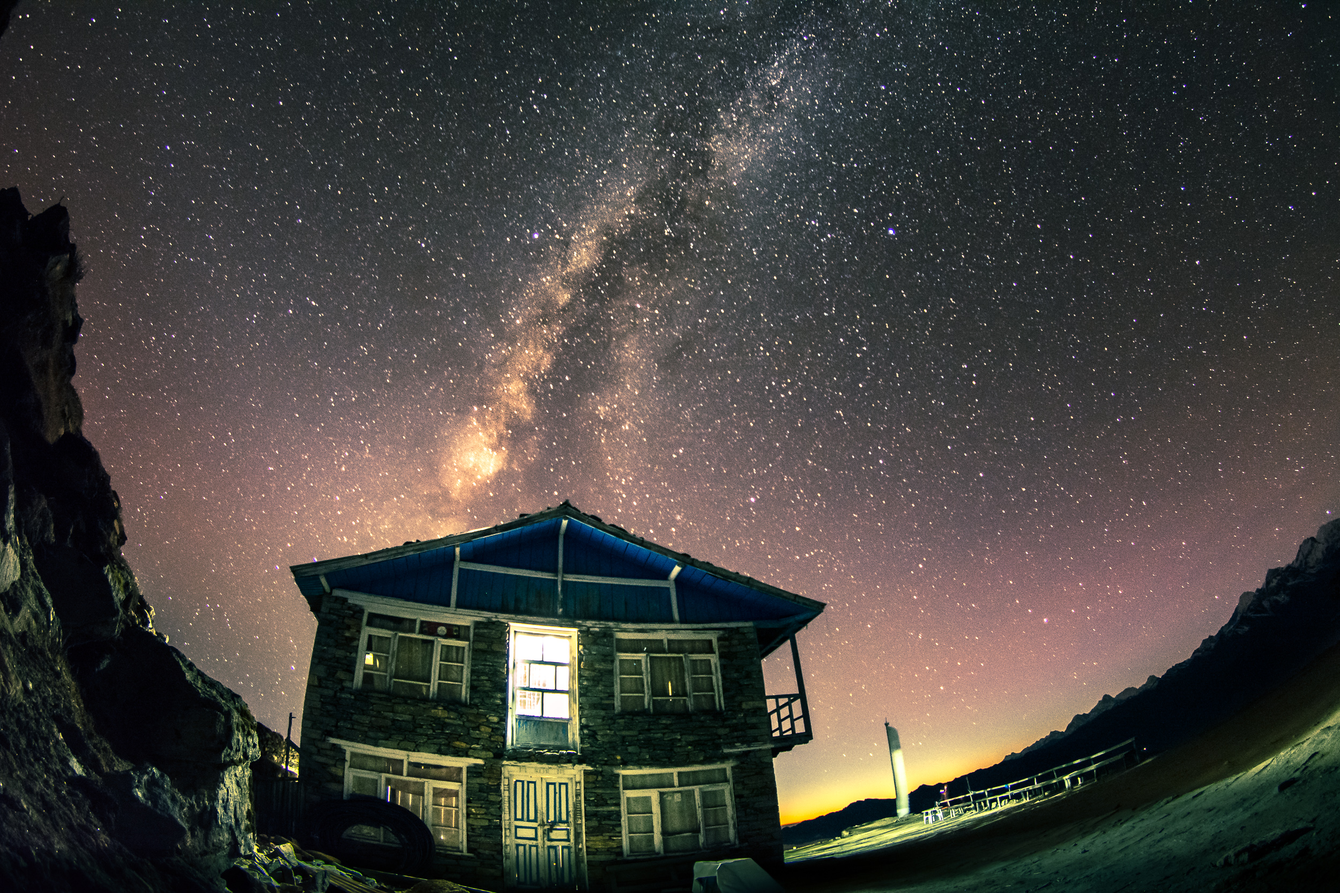
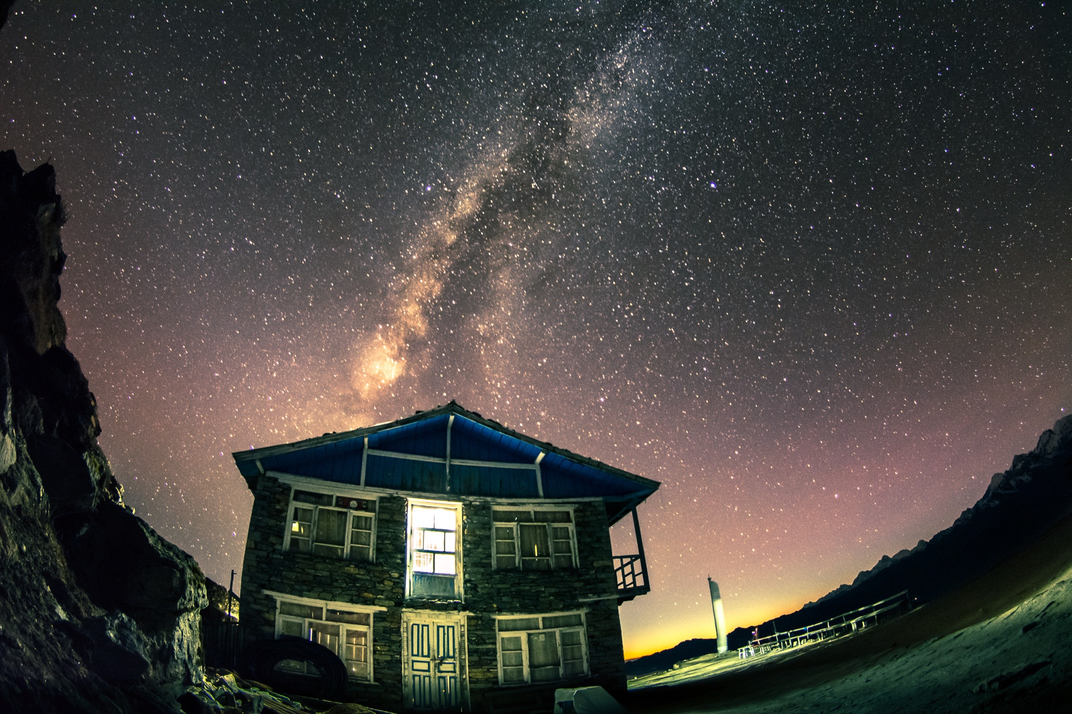
Complete production QA and optimization

diff --git a/src/components/sections/VideoSection.tsx b/src/components/sections/VideoSection.tsx
@@ -3,17 +3,43 @@
 import { useState } from "react";
 import { Container } from "@/components/ui/Container";
 
+function getRutubeEmbedUrl(value: string): string | null {
+  if (!value) return null;
+
+  try {
+    const url = new URL(value);
+    const videoId = url.hostname === "rutube.ru"
+      ? url.pathname.match(/^\/video\/([a-f0-9]{32})\/?$/i)?.[1]
+      : null;
+
+    return videoId ? `https://rutube.ru/play/embed/${videoId}/` : null;
+  } catch {
+    return null;
+  }
+}
+
 export function VideoSection({ url }: { url: string }) {
   const [active, setActive] = useState(false);
-  const canPlay = Boolean(url);
+  const embedUrl = getRutubeEmbedUrl(url);
+  const canPlay = Boolean(embedUrl);
   return (
     <section className="museum-video relative overflow-hidden border-t border-white/[0.06] pb-20 pt-24 sm:pb-28 sm:pt-32" aria-labelledby="video-title">
       <Container>
         <div className="grid items-end gap-8 lg:grid-cols-[.65fr_1.35fr] lg:gap-16">
           <div className="museum-video__intro lg:pb-6"><p className="eyebrow">Ролик</p><h2 id="video-title" className="mt-4 text-balance text-3xl font-medium tracking-[-.04em] text-milk sm:text-4xl lg:text-5xl">Методы оценки бронзовых фигур Азии</h2></div>
           <div className="museum-video__frame relative aspect-video overflow-hidden rounded-[1rem] border border-white/10 bg-[radial-gradient(circle_at_50%_40%,rgba(143,178,210,.13),transparent_35%),#090c13]">
-            {active && canPlay ? <iframe src={url} title="Методы оценки бронзовых фигур Азии" allow="fullscreen; picture-in-picture" className="absolute inset-0 h-full w-full" /> : (
-              <button type="button" disabled={!canPlay} onClick={() => setActive(true)} className="group absolute inset-0 flex flex-col items-center justify-center gap-4 text-milk disabled:cursor-default" aria-label={canPlay ? "Воспроизвести видео" : "Видео скоро появится"}>
+            {active && embedUrl ? (
+              <iframe
+                src={embedUrl}
+                title="Методы оценки бронзовых фигур Азии"
+                allow="autoplay; fullscreen; picture-in-picture"
+                allowFullScreen
+                loading="lazy"
+                referrerPolicy="strict-origin-when-cross-origin"
+                className="absolute inset-0 h-full w-full"
+              />
+            ) : (
+              <button type="button" disabled={!canPlay} onClick={() => setActive(true)} className="group absolute inset-0 flex flex-col items-center justify-center gap-4 text-milk disabled:cursor-default">
                 <span className="grid size-20 place-items-center rounded-full border border-cold/40 bg-cold/[0.08] transition group-enabled:hover:scale-105 group-enabled:hover:bg-cold/[0.14]"><span className="ml-1 block h-0 w-0 border-y-[9px] border-l-[14px] border-y-transparent border-l-milk" /></span>
                 <span className="text-sm tracking-wide text-muted">{canPlay ? "Смотреть видео" : "Видео скоро появится"}</span>
               </button>

diff --git a/src/app/layout.tsx b/src/app/layout.tsx
@@ -1,9 +1,16 @@
 import type { Metadata } from "next";
+import { Manrope } from "next/font/google";
 import "./globals.css";
 import { Header } from "@/components/layout/Header";
 import { FloatingContactButton } from "@/components/contacts/FloatingContactButton";
 import { AnalyticsConsent } from "@/components/analytics/AnalyticsConsent";
 import { DEFAULT_OG_IMAGE, HOME_DESCRIPTION, HOME_TITLE, SITE_NAME, getSiteUrl } from "@/lib/seo";
+
+const manrope = Manrope({
+  subsets: ["cyrillic", "latin"],
+  display: "swap",
+  variable: "--font-manrope",
+});
 
 export const metadata: Metadata = {
   metadataBase: getSiteUrl(),
@@ -26,5 +33,5 @@ export const metadata: Metadata = {
 };
 
 export default function RootLayout({ children }: Readonly<{ children: React.ReactNode }>) {
-  return <html lang="ru"><body><Header />{children}<FloatingContactButton /><AnalyticsConsent /></body></html>;
+  return <html lang="ru"><body className={manrope.variable}><Header />{children}<FloatingContactButton /><AnalyticsConsent /></body></html>;
 }

diff --git a/src/components/contacts/MessengerButtons.tsx b/src/components/contacts/MessengerButtons.tsx
@@ -12,9 +12,9 @@ export function MessengerButtons({ compact = false, dark = false, prominent = fa
           href={messenger.href}
           target="_blank"
           rel="noopener noreferrer"
-          aria-label={messenger.note}
+          title={messenger.note}
           onClick={() => trackMessengerClick(messenger.name, location)}
-          className={`group inline-flex items-center justify-center gap-2 rounded-full border text-sm transition duration-300 hover:-translate-y-0.5 ${
+          className={`group inline-flex min-h-11 items-center justify-center gap-2 rounded-full border text-sm transition duration-300 hover:-translate-y-0.5 ${
             prominent
               ? messenger.name === "Telegram"
                 ? "min-h-14 border-milk bg-milk px-7 py-3.5 font-semibold text-ink shadow-[0_12px_38px_rgba(191,213,231,.16)] hover:shadow-[0_16px_44px_rgba(191,213,231,.24)]"

diff --git a/src/components/sections/FinalSection.tsx b/src/components/sections/FinalSection.tsx
@@ -41,8 +41,8 @@ export function FinalSection() {
           <div className="flex flex-col gap-6 sm:flex-row sm:items-center sm:justify-between">
             <Logo light />
             <nav className="flex flex-wrap items-center gap-x-6 gap-y-3 text-sm text-white/65" aria-label="Ссылки в подвале">
-              <Link href="/blog">Статьи</Link>
-              <Link href="/privacy">Политика конфиденциальности</Link>
+              <Link href="/blog" className="inline-flex min-h-11 items-center">Статьи</Link>
+              <Link href="/privacy" className="inline-flex min-h-11 items-center">Политика конфиденциальности</Link>
               {adminUrl ? (
                 <a
                   href={adminUrl}

diff --git a/src/components/layout/Logo.tsx b/src/components/layout/Logo.tsx
@@ -2,7 +2,7 @@ import Link from "next/link";
 
 export function Logo({ light = false }: { light?: boolean }) {
   return (
-    <Link href="/" className={`group flex items-center gap-2.5 ${light ? "text-white" : "text-milk"}`} aria-label="X-Buddha — на главную">
+    <Link href="/" className={`group flex min-h-11 items-center gap-2.5 ${light ? "text-white" : "text-milk"}`} aria-label="X-Buddha — на главную">
       <span className="relative grid size-8 place-items-center" aria-hidden="true">
         <span className="absolute inset-[3px] rounded-full border border-cold/35 transition-transform duration-500 group-hover:rotate-45" />
         <span className="text-xl font-light leading-none text-cold">X</span>

diff --git a/src/app/globals.css b/src/app/globals.css
@@ -19,7 +19,7 @@
 
 * { box-sizing: border-box; }
 html { scroll-behavior: smooth; background: var(--color-bg-primary); }
-body { margin: 0; overflow-x: hidden; background: #03060b; color: var(--color-text-primary); font-family: Manrope, "Segoe UI", Arial, sans-serif; text-rendering: optimizeLegibility; }
+body { margin: 0; overflow-x: hidden; background: #03060b; color: var(--color-text-primary); font-family: var(--font-manrope), "Segoe UI", Arial, sans-serif; text-rendering: optimizeLegibility; }
 ::selection { background: rgba(183, 210, 232, .25); color: white; }
 :focus-visible { outline: 2px solid var(--color-accent-cold); outline-offset: 3px; }
 

diff --git a/next.config.ts b/next.config.ts
@@ -23,10 +23,12 @@ function getDirectusImagePattern(): NonNullable<NextConfig["images"]>["remotePat
 
 const nextConfig: NextConfig = {
   output: "standalone",
+  poweredByHeader: false,
   reactStrictMode: true,
   trailingSlash: true,
   images: {
     dangerouslyAllowLocalIP: process.env.NODE_ENV !== "production",
+    deviceSizes: [384, 640, 750, 828, 1080, 1200, 1920, 2048, 3840],
     remotePatterns: getDirectusImagePattern(),
   },
 };

diff --git a/src/app/blog/[slug]/page.tsx b/src/app/blog/[slug]/page.tsx
@@ -33,7 +33,7 @@ export async function generateMetadata({ params }: Props): Promise<Metadata> {
     const socialImageUrl = socialImage ? getDirectusAssetUrl(socialImage.id) : DEFAULT_OG_IMAGE.url;
     const canonicalUrl = getCanonicalUrl(`/blog/${encodeURIComponent(article.slug)}/`);
     return {
-      title,
+      title: { absolute: title },
       description,
       alternates: { canonical: canonicalUrl },
       openGraph: {

diff --git a/src/data/site.ts b/src/data/site.ts
@@ -26,5 +26,5 @@ export const site = {
     cta: "Пишите в сообщения прямо сейчас!",
   },
   slideDuration: 6000,
-  rutubeUrl: "",
+  rutubeUrl: "https://rutube.ru/video/2c3be6ec126a5bbb56fe377f14346461/",
 } as const;

diff --git a/docs/audits/018-production-qa-report.md b/docs/audits/018-production-qa-report.md
@@ -1,0 +1,51 @@
+# Отчёт Production QA & Optimization — задача 018
+
+Дата аудита: 12 августа 2026 года. Проверенная версия до исправлений: `a5b792c`; production: `https://xbuddha.org`, Directus: `https://admin.xbuddha.org`.
+
+## Результат
+
+Проведён комплексный production QA по work items P6 из [плана проекта](../project-plan.md). Critical- и High-дефектов не обнаружено. Найденные Medium-дефекты исправлены и повторно проверены; реальное RuTube-видео подключено через отложенный embed без ранней загрузки player. Полная отдельная проверка Safari и Firefox остаётся ручной: доступное автоматизированное окружение использует Chromium.
+
+## Проверенный объём
+
+- Функциональные маршруты: `/`, `/blog/`, опубликованный `/blog/buddhist-sculpture-attribution/`, `/privacy/`, штатные 404 `/offer/`, неизвестного маршрута и неизвестного blog slug; `sitemap.xml`, `robots.txt`, health endpoints.
+- Главная: header и навигация, hero slider, CTA Telegram/MAX, схема атрибуции, процесс оценки, видео, финальная композиция, footer, mobile menu и bottom sheet.
+- Responsive: 360, 390, 768, 1024 и 1440 px; horizontal overflow не обнаружен. Проверены typography, spacing, изображения, CTA, attribution, video, blog, privacy, consent и footer.
+- Blog/Directus: одна опубликованная статья проходит цепочку Directus → Next.js → `/blog`; проверены title, excerpt, rich content, cover, SEO description, Open Graph, sitemap и 404. Публичный запрос draft возвращает пустой список, системная коллекция Directus — 403. Недоступность CMS обрабатывается пользовательским сообщением без stack trace.
+- SEO: canonical `.org`, metadata, Open Graph, Twitter Card, JSON-LD, H1/heading structure, indexability и `noindex` для 404. Старых `.ru` URL в production не обнаружено.
+- Analytics/consent: production ID `111463994` встроен; до согласия скрипт Метрики отсутствует. Accept/Reject сохраняются после reload, основной сайт работает в обоих режимах. SPA `hit`, единичная инициализация и цели Telegram/MAX проверены по реализации; создание целей в интерфейсе Метрики остаётся внешней ручной настройкой.
+- Security: HTTPS и сертификат, firewall, внешние порты, `.env` → 404, public Directus policy, CORS, SSH hardening, loopback bindings и отсутствие host port PostgreSQL.
+- Infrastructure: три контейнера healthy, restart count 0, `unless-stopped`; доступно 2,2 GiB RAM, swap почти не используется, диск занят на 32%. Certbot timer active/enabled, сертификат действителен до 9 ноября 2026 года, backups PostgreSQL/uploads присутствуют. Restart loops, memory pressure, быстро растущие логи и актуальные критические ошибки не обнаружены.
+
+## Lighthouse baseline
+
+| Режим | Performance | Accessibility | Best Practices | SEO | LCP | CLS | TBT |
+| --- | ---: | ---: | ---: | ---: | ---: | ---: | ---: |
+| Mobile | 92 | 100 | 100 | 100 | 1,3 с | 0 | 50 мс |
+| Desktop | 96 | 100 | 100 | 100 | 0,5 с | 0 | 0 мс |
+
+Лабораторный TBT использован как доступный аналог responsiveness/INP. Field INP не объявляется проверенным без достаточных CrUX-данных. Mobile Speed Index baseline — 7,6 с; главный UX/CWV-сигнал при этом стабилен: LCP 1,3 с и CLS 0.
+
+## Найденные и исправленные проблемы
+
+| Severity | Проблема | Исправление и повторная проверка |
+| --- | --- | --- |
+| Medium | Переданный обычный RuTube URL нельзя открывать в iframe из-за `X-Frame-Options: SAMEORIGIN`. | URL остаётся централизованным в `site.ts`, компонент валидирует его и строит официальный `/play/embed/{id}/`; iframe создаётся только после клика, сохраняет 16:9 и не вызывает overflow/CLS. |
+| Medium | SEO title опубликованной статьи получал суффикс `— X-Buddha` поверх уже заданного CMS title `| X-Buddha`. | Article metadata использует absolute title; production-ready build подтвердил единственный брендовый суффикс. |
+| Medium | Часть messenger CTA имела accessible name, не содержащий видимый label; некоторые footer/CTA touch targets были ниже 44 px. | Убраны конфликтующие `aria-label`, пояснение перенесено в `title`, CTA и footer links получили `min-height: 44px`; видимый дизайн сохранён. |
+| Medium | Production не отдавал базовые security headers и раскрывал application server headers. | В Next.js отключён `X-Powered-By`; Nginx скрывает upstream header, отключает version token и добавляет HSTS, nosniff, SAMEORIGIN для frontend, Referrer-Policy и Permissions-Policy. Конфигурация применяется только после `nginx -t`. |
+| Medium | Lighthouse оценил около 45 KiB лишней передачи responsive images; Himalayas source весил 2,5 MiB. | Добавлен mobile breakpoint 384 px для Next/Image. Himalayas перекодирован с 2500×1667/2,5 MiB до 2000×1333/0,91 MiB без изменения aspect ratio и заметной потери для фактического затемнённого фона. |
+| Medium | Проект декларировал Manrope, но не поставлял этот шрифт, поэтому фактически использовал системный fallback. | Manrope подключён через `next/font` с self-hosting, preload, `display: swap`, только Latin/Cyrillic и без внешнего runtime-запроса. |
+
+## Сознательно оставлено
+
+- Safari и Firefox не объявлены проверенными: в доступном окружении присутствует только Chromium-based браузер. Нужен отдельный ручной проход на актуальных Safari/Firefox; поэтому work item cross-browser остаётся открытым.
+- Реальные переходы во внешние Telegram/MAX проверены по URL, target/rel и доступности endpoints; тестовые сообщения не отправлялись.
+- Draft/published проверены без изменения production-контента: public API отдаёт опубликованную статью и не раскрывает drafts. Создание/снятие тестовой статьи не выполнялось.
+- Агрессивный pentest, destructive проверки persistence и restore не проводились. Backup/restore уже проверялся при подготовке VPS; в этой задаче подтверждены наличие согласованных архивов и health runtime.
+- Локальная Docker-сборка была недоступна из-за остановленного Docker daemon. Обязательный production Docker build выполняется штатно на VPS перед обновлением контейнера.
+- В логах присутствуют исторические ошибки периода первичной настройки 11 августа; после текущего стабильного запуска контейнеры не перезапускались и актуальных повторяющихся ошибок не обнаружено.
+
+## Итог по P6
+
+Финальная оптимизация изображений и шрифтов, Core Web Vitals, accessibility, desktop/mobile и исправление существенных дефектов выполнены. Cross-browser work item остаётся открытым до отдельной проверки Safari/Firefox.

diff --git a/docs/project-plan.md b/docs/project-plan.md
@@ -31,9 +31,9 @@
 - [x] Получить и установить финальные тексты.
 - [x] Получить и установить финальные изображения.
 - [x] Подготовить корректные alt-тексты.
-- [ ] Оптимизировать production-медиа.
-- [ ] Получить и подключить реальный RuTube URL.
-- [ ] Удалить временные медиазаглушки.
+- [x] Оптимизировать production-медиа.
+- [x] Получить и подключить реальный RuTube URL.
+- [x] Удалить временные медиазаглушки.
 
 ## P3 — Мессенджеры и конверсия
 
@@ -80,14 +80,14 @@ CMS и модель блога зафиксированы в [архитекту
 
 Результат: финальная версия соответствует требованиям производительности, accessibility и адаптивности.
 
-- [ ] Провести финальную оптимизацию изображений.
-- [ ] Провести финальную оптимизацию шрифтов.
-- [ ] Проверить Core Web Vitals.
-- [ ] Провести accessibility-аудит.
-- [ ] Проверить основные desktop-разрешения.
-- [ ] Проверить основные mobile-разрешения.
+- [x] Провести финальную оптимизацию изображений.
+- [x] Провести финальную оптимизацию шрифтов.
+- [x] Проверить Core Web Vitals.
+- [x] Провести accessibility-аудит.
+- [x] Проверить основные desktop-разрешения.
+- [x] Проверить основные mobile-разрешения.
 - [ ] Провести кроссбраузерную проверку.
-- [ ] Исправить найденные критические и существенные дефекты.
+- [x] Исправить найденные критические и существенные дефекты.
 
 Промежуточные frontend-проверки не закрывают work items P6: финальный QA проводится на версии, близкой к production.
 

diff --git a/CHANGELOG.md b/CHANGELOG.md
@@ -1,5 +1,13 @@
 # История изменений
 
+## 2026-08-12 — задача 018
+
+- Реальный RuTube URL подключён через валидируемый lazy embed; обычная страница видео больше не передаётся напрямую в iframe.
+- Проведены production functional, responsive, CMS, SEO, analytics/consent, security и infrastructure QA; Critical/High-дефекты не обнаружены, результаты зафиксированы в `docs/audits/018-production-qa-report.md`.
+- Исправлены дублирование бренда в title статьи, accessible names и touch targets CTA/footer; подключён self-hosted Manrope через `next/font`.
+- Оптимизированы responsive image widths и Himalayas source (2,5 MiB → 0,91 MiB); добавлены базовые security headers и скрытие application server headers.
+- P2 завершён; в P6 закрыты семь из восьми work items, отдельная ручная проверка Safari/Firefox оставлена открытой.
+
 ## 2026-08-11 — задача 017
 
 - Production ID Яндекс.Метрики зафиксирован как `111463994`; сохранена загрузка счётчика только после согласия и существующие события Telegram/MAX во всех основных CTA.
